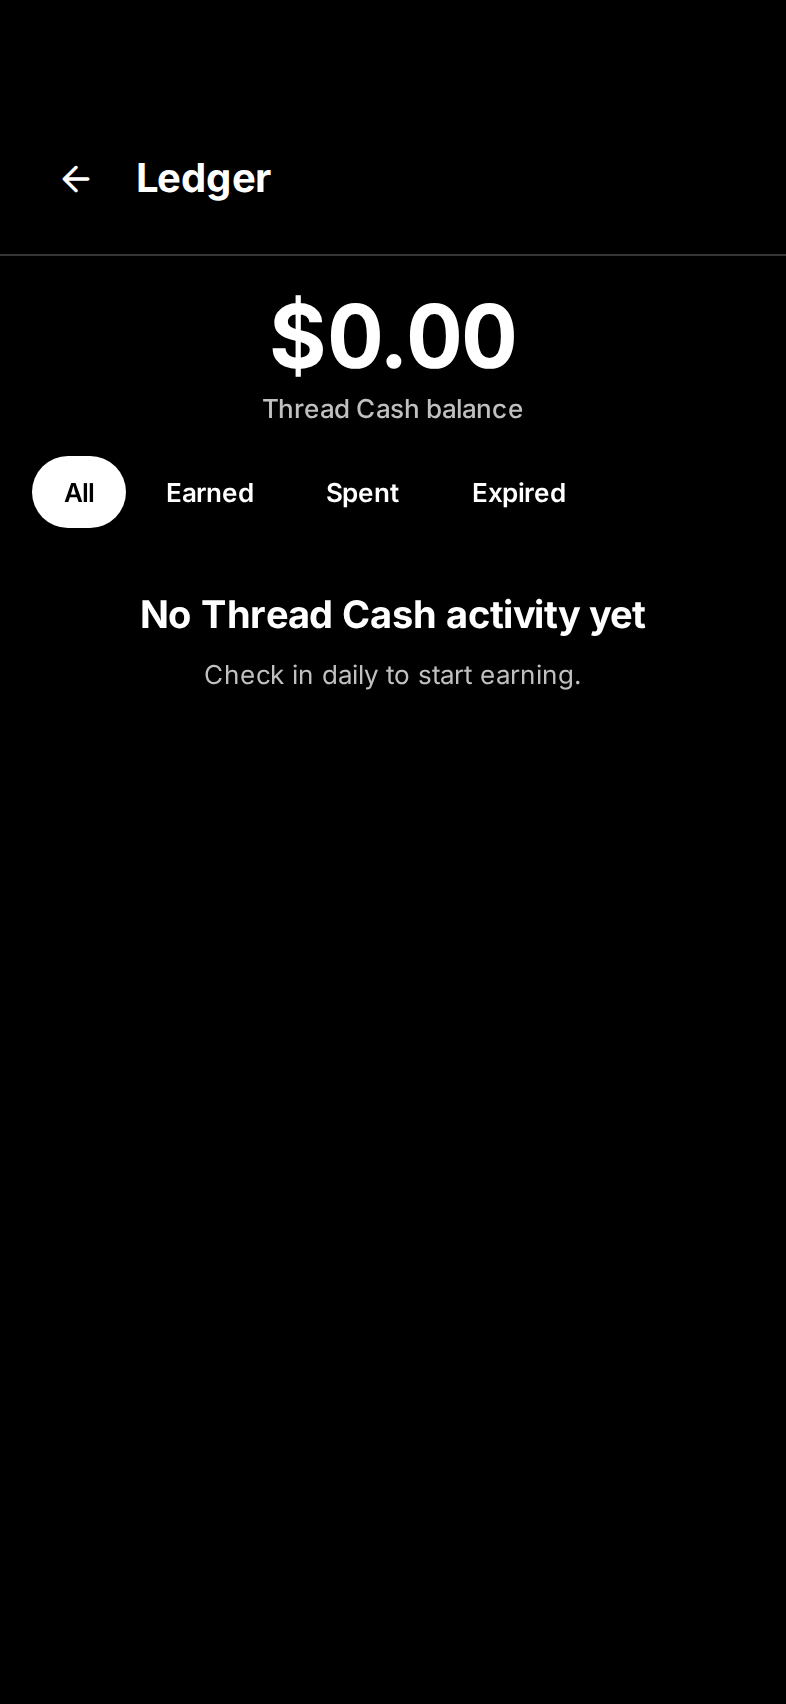
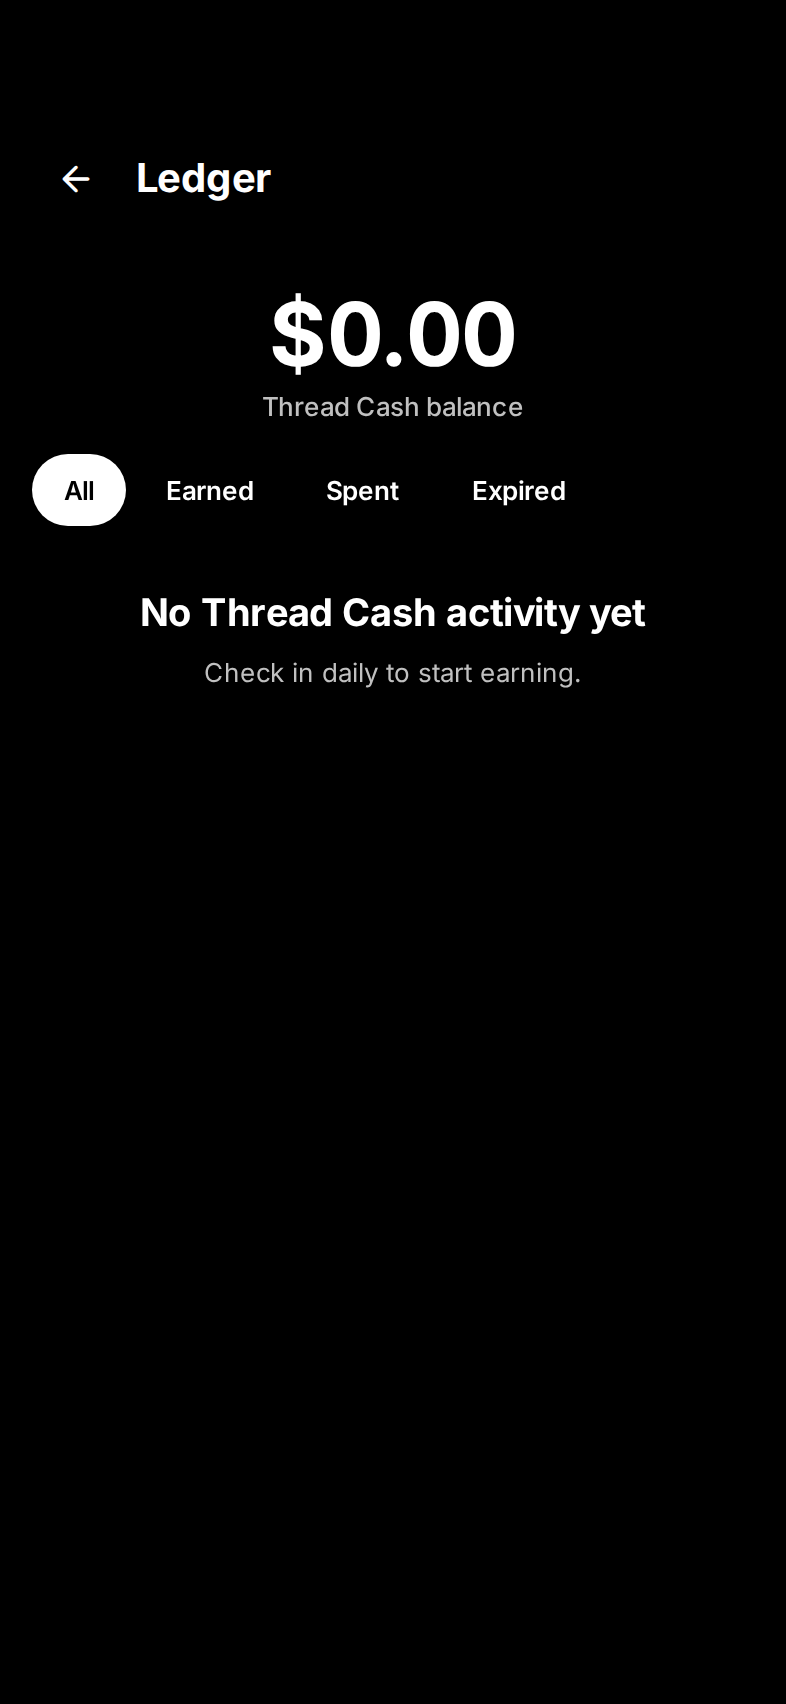
Thread Cash: text-fit pass, no header divider, overflow check in screenshot script
Claude-Session: https://claude.ai/code/session_013KyR9SMZe4zRtDta4vsdKK

diff --git a/artifacts/mobile/app/thread-cash.tsx b/artifacts/mobile/app/thread-cash.tsx
@@ -199,7 +199,7 @@ export default function ThreadCashScreen() {
 
   return (
     <BrandthreadScreen scrollable noSafeTop>
-      <ScreenHeader title="Thread Cash" onBack={() => goBackOr(router)} />
+      <ScreenHeader hideDivider title="Thread Cash" onBack={() => goBackOr(router)} />
       {loading ? (
         <BalanceSkeleton styles={styles} />
       ) : (
@@ -220,8 +220,8 @@ export default function ThreadCashScreen() {
                   {formatCents(status?.balanceCents ?? 0)}
                 </Text>
               )}
-              <Text style={styles.balanceHint} numberOfLines={2}>
-                Thread Cash isn't money — it can't be cashed out or transferred for cash. Use it toward purchases in the app.
+              <Text style={styles.balanceHint}>
+                Not cash. Use it toward purchases in the app.
               </Text>
             </BrandthreadCard>
 
@@ -275,8 +275,8 @@ export default function ThreadCashScreen() {
               })}
             </View>
             <Text style={[styles.streakSub, TABULAR_NUMS, { color: theme.muted }]}>
-              Longest streak: {status?.streak.longestStreak ?? 0} days · Earn ${(((status?.config.dailyAmountCents ?? 10)) / 100).toFixed(2)}/day,
-              {' '}${(((status?.config.streakBonusCents ?? 100)) / 100).toFixed(2)} bonus every {streakBonusDays} days
+              Longest streak: {status?.streak.longestStreak ?? 0} days{'\n'}
+              Earn ${(((status?.config.dailyAmountCents ?? 10)) / 100).toFixed(2)} a day, ${(((status?.config.streakBonusCents ?? 100)) / 100).toFixed(2)} bonus every {streakBonusDays} days
             </Text>
           </BrandthreadCard>
 
@@ -406,7 +406,7 @@ const makeStyles = (theme: AppThemePreset) => StyleSheet.create({
   historyLabel: { fontSize: FS.sm, fontFamily: FONT.medium },
   historyDate: { fontSize: FS.xs, fontFamily: FONT.regular, marginTop: 2 },
   historyAmount: { fontSize: FS.sm, fontFamily: FONT.semibold, textAlign: 'right' },
-  ledgerRow: { flexDirection: 'row', alignItems: 'center', minHeight: 52, paddingHorizontal: SP.xs, borderTopWidth: StyleSheet.hairlineWidth },
+  ledgerRow: { flexDirection: 'row', alignItems: 'center', minHeight: 52, paddingHorizontal: 0, borderTopWidth: StyleSheet.hairlineWidth },
   rulesCard: { marginBottom: SP.lg, padding: 0, overflow: 'hidden' },
   ruleRow: { flexDirection: 'row', alignItems: 'flex-start', gap: SP.sm, paddingVertical: SP.sm, paddingHorizontal: SP.md },
   ruleDot: { width: 5, height: 5, borderRadius: 3, marginTop: 7 },

diff --git a/artifacts/mobile/components/ScreenHeader.tsx b/artifacts/mobile/components/ScreenHeader.tsx
@@ -44,6 +44,8 @@ interface ScreenHeaderProps {
    * itself, only which icon a screen that already has one shows.
    */
   variant?: 'push' | 'modal';
+  /** Opt out of the hairline under the header. Default keeps every existing screen unchanged. */
+  hideDivider?: boolean;
 }
 
 /** Design-system rule: at most 2 action icons on the right, primary rightmost. */
@@ -61,7 +63,7 @@ const MAX_HEADER_ACTIONS = 2;
 const TITLE_SIZE = 20;
 
 export function ScreenHeader({
-  title, subtitle, rightElement, actions, scrollY, collapseDistance = 48, onBack, backTestID, backAccessibilityLabel, variant = 'push',
+  title, subtitle, rightElement, actions, scrollY, collapseDistance = 48, onBack, backTestID, backAccessibilityLabel, variant = 'push', hideDivider = false,
 }: ScreenHeaderProps) {
   const colors = useColors();
   const cappedActions = actions?.slice(-MAX_HEADER_ACTIONS);
@@ -84,7 +86,7 @@ export function ScreenHeader({
   const closeOrBack = () => (onBack ? onBack() : goBackOr(router));
 
   return (
-    <View testID="screen-header" style={[styles.wrap, { paddingTop: topPad, borderBottomColor: colors.border }]}>
+    <View testID="screen-header" style={[styles.wrap, { paddingTop: topPad, borderBottomColor: colors.border }, hideDivider && { borderBottomWidth: 0 }]}>
       <View style={styles.container}>
         {variant === 'push' && (
           <PressableScale

diff --git a/artifacts/mobile/app/thread-cash-ledger.tsx b/artifacts/mobile/app/thread-cash-ledger.tsx
@@ -109,7 +109,7 @@ export default function ThreadCashLedgerScreen() {
 
   return (
     <View style={[styles.root, { backgroundColor: theme.background }]}>
-      <ScreenHeader title="Ledger" onBack={() => goBackOr(router)} />
+      <ScreenHeader hideDivider title="Ledger" onBack={() => goBackOr(router)} />
       <ScrollView contentContainerStyle={{ paddingBottom: Math.max(insets.bottom, SP.lg) + SP.md }} showsVerticalScrollIndicator={false}>
         <View style={styles.hero}>
           <Text style={[styles.heroValue, tabularType('display'), { color: theme.text }]} testID="thread-cash-ledger-balance">
